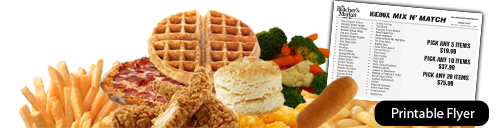
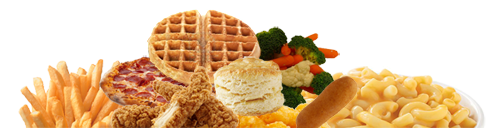
section styling

Changed region(s): [[0.63, 0.0, 0.99, 1.0]]

diff --git a/index.html b/index.html
@@ -77,9 +77,11 @@
     <div class="section section-meat">
       <div class="section-header">
         <div class="container">
-          <h1 class="section-title">Meat</h1>
           <img src="images/meat.png" class="img-responsive section-image">
         </div>
+      </div>
+      <div class="section-title">
+        <h1>Meat</h1>
       </div>
 
       <div id="meat" class="section-bubble section-bubble-cab">
@@ -106,12 +108,10 @@
 
       <div class="section-description">
         <div class="container">
-          <div class="col-md-6">
+          <div class="section-tagline">
           <h2>Bundle Packages!</h2>
           <p>we have a package for every household!</p>
-          </div>
-          <div class="col-md-6">
-          <img src="/images/bundles-flyer.png">
+          <p><a href="images/bmpackages.pdf" class="btn btn-primary">Veiw Printable Flyer</a>
           </div>
         </div>
       </div>
@@ -256,8 +256,11 @@
 
      <div class="section-description">
         <div class="container">
+        <div class="section-tagline">
           <h2>Mix N' Match</h2>
           <p>Build your own package</p>
+          <p><a href="images/bmpackages.pdf" class="btn btn-primary">Veiw Printable Flyer</a></p>
+          </div>
         </div>
       </div>
       <div class="section-body section-meat-mix-match">
@@ -312,8 +315,11 @@
 
    <div class="section-description">
         <div class="container">
+        <div class="section-tagline">
           <h2>Ice Box Mix N' Match</h2>
           <p>Fill your freezer with quick, easy, and affordable side items and instant meals!</p>
+          <p><a href="images/bmpackages.pdf" class="btn btn-primary">Veiw Printable Flyer</a></p>
+          </div>
         </div>
       </div>
 
@@ -397,9 +403,11 @@
     <div class="section section-deli">
       <div class="section-header">
         <div class="container">
-          <h1 class="section-title">Deli</h1>
           <img src="images/deli.png" class="img-responsive section-image">
         </div>
+      </div>
+      <div class="section-title">
+        <h1>Deli</h1>
       </div>
        <div id="deli" class="section-bubble">
       <div class="section-bubble-body bubble-body-bh">
@@ -675,14 +683,19 @@
     <div class="section section-catering">
       <div class="section-header">
         <div class="container">
-          <h1 class="section-title">Catering</h1>
           <img src="images/platters.png" class="img-responsive section-image">
         </div>
       </div>
+      <div class="section-title">
+        <h1>Catering</h1>
+      </div>
       <div class="section-description">
         <div class="container">
+        <div class="section-tagline">
           <h2>Cater your own event!</h2>
           <p>Make hosting easier... let us do the hard work for you!</p>
+          <p><a href="images/bmpartyplatters.pdf" class="btn btn-primary">Veiw Printable Flyer</a></p>
+          </div>
         </div>
       </div>
       <div class="section-body section-catering-content">
@@ -770,7 +783,7 @@
                   <div class="bbq-feast-item deli-item">
                     <div class="deli-image-container">
                       <img src="images/salads.png" class="img-responsive img-rounded">
-                      <a href="#" class="item-info-btn deli-item-btn" data-item-list="$1.99;$2.99;$3.99;$4.99">
+                      <a href="#" class="item-info-btn deli-item-btn" data-item-list="$21.99;$55.99;$83.99;$111.99">
                         <span class="glyphicon glyphicon-zoom-in"></span>
                         More Info
                       </a>
@@ -782,7 +795,7 @@
                   <div class="bbq-feast-item deli-item">
                     <div class="deli-image-container">
                       <img src="images/salads.png" class="img-responsive img-rounded">
-                      <a href="#" class="item-info-btn deli-item-btn" data-item-list="$1.99;$2.99;$3.99;$4.99">
+                      <a href="#" class="item-info-btn deli-item-btn" data-item-list="$18.99;$47.99;$71.99;$95.99">
                         <span class="glyphicon glyphicon-zoom-in"></span>
                         More Info
                       </a>
@@ -794,7 +807,7 @@
                   <div class="bbq-feast-item deli-item">
                     <div class="deli-image-container">
                       <img src="images/salads.png" class="img-responsive img-rounded">
-                      <a href="#" class="item-info-btn deli-item-btn" data-item-list="$1.99;$2.99;$3.99;$4.99">
+                      <a href="#" class="item-info-btn deli-item-btn" data-item-list="$32.99;$82.99;$124.99;$166.99">
                         <span class="glyphicon glyphicon-zoom-in"></span>
                         More Info
                       </a>
@@ -806,7 +819,7 @@
                   <div class="bbq-feast-item deli-item">
                     <div class="deli-image-container">
                       <img src="images/salads.png" class="img-responsive img-rounded">
-                      <a href="#" class="item-info-btn deli-item-btn" data-item-list="$1.99;$2.99;$3.99;$4.99">
+                      <a href="#" class="item-info-btn deli-item-btn" data-item-list="$27.99;$78.99;$118.99;$157.99">
                         <span class="glyphicon glyphicon-zoom-in"></span>
                         More Info
                       </a>
@@ -824,13 +837,15 @@
     <div id="grocery" class="section section-grocery">
       <div class="section-header">
         <div class="container">
-          <h1 class="section-title">Grocery</h1>
           <img src="images/grocery.png" class="img-responsive section-image">
         </div>
       </div>
+      <div class="section-title">
+        <h1>Grocery</h1>
+      </div>
       <div class="section-description">
         <div class="container">
-          <p>While not our main focus, we do stock a variety of specialty and everyday grocery &amp; produce items.</p>
+          <p>We also stock a variety of specialty and everyday grocery &amp; produce items.</p>
         </div>
       </div>
       <div class="section-body section-grocery-content">
@@ -964,13 +979,18 @@
     <div id="dining" class="section section-dining">
       <div class="section-header">
         <div class="container">
-          <h1 class="section-title">Dining</h1>
           <img src="images/dining.png" class="img-responsive section-image">
         </div>
       </div>
+      <div class="section-title">
+        <h1>Dining</h1>
+      </div>
       <div class="section-description">
         <div class="container">
+        <div class="section-tagline">
           <p>Stop in, take a load off, and have some lunch!  OR... Stop in after work and take some dinner home for your family.</p>
+          <p><a href="images/bmmenu.pdf" class="btn btn-primary">Veiw Printable Menu</a></p>
+          </div>
         </div>
       </div>
       <div class="section-body section-dining-content">
@@ -1136,9 +1156,11 @@
     <div id="beverage" class="section section-beverage">
       <div class="section-header">
         <div class="container">
-          <h1 class="section-title">Beverage</h1>
           <img src="images/beverage.png" class="img-responsive section-image">
         </div>
+      </div>
+      <div class="section-title">
+        <h1>Beverage</h1>
       </div>
       <div class="section-description">
         <div class="container">

diff --git a/less/app/sections.less b/less/app/sections.less
@@ -14,9 +14,17 @@
 }
 
 .section-title {
-  float: left;
   font-size: 46px;
+  background: #c6a86a;
+ border-bottom: solid 5px #2F2E2B;
+ border-top: solid 5px #2F2E2B;
+
+ h1{
+  margin: 5px;
+  margin-left: 50px;
+ }
 }
+
 
 .section-image {
   float: right;
@@ -34,6 +42,14 @@
 
   p {
     margin-bottom: 0;
+  }
+}
+
+
+
+.section-tagline {
+  .btn {
+    margin-top: 15px;
   }
 }
 
